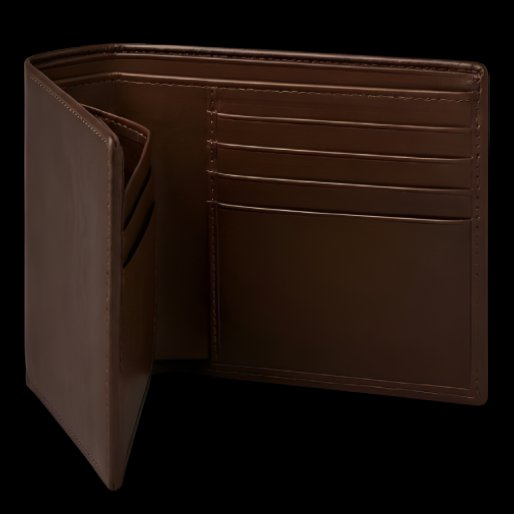
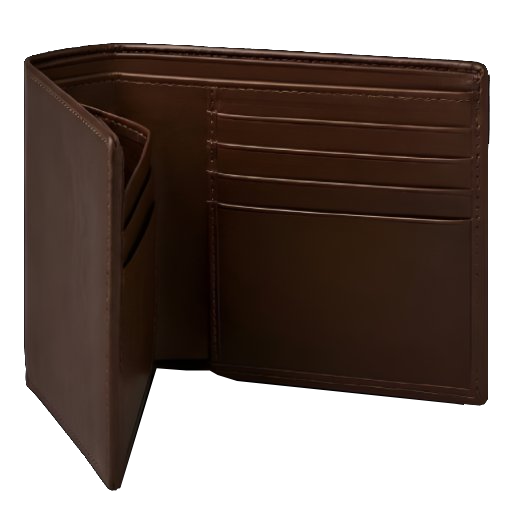
Tailwindcss added fixed design and and wallet images

diff --git a/src/pages/Home.jsx b/src/pages/Home.jsx
@@ -32,54 +32,68 @@ const TESTIMONIALS = [
   },
 ]
 
+/* ── 15 wallet frames ── */
+const FRAMES = [
+  { src: '/images/wallet-01-front-closed.png',   label: 'Closed · Hand-stitched cowhide' },
+  { src: '/images/wallet-02-opened-30deg.png',   label: 'Opening · Vegetable tanned leather' },
+  { src: '/images/wallet-03-opened-45deg.png',   label: 'Opening · Vegetable tanned leather' },
+  { src: '/images/wallet-04-opened-60deg.png',   label: 'Opening · Vegetable tanned leather' },
+  { src: '/images/wallet-05-opened-85deg.png',   label: 'Opening · Vegetable tanned leather' },
+  { src: '/images/wallet-06-opened-100deg.png',  label: 'Opening · Vegetable tanned leather' },
+  { src: '/images/wallet-07-opened-130deg.png',  label: 'Opening · Vegetable tanned leather' },
+  { src: '/images/wallet-08-opened-180deg.png',  label: 'Open · 8 card slots inside' },
+  { src: '/images/wallet-09-closing-130deg.png', label: 'Open · 8 card slots inside' },
+  { src: '/images/wallet-10-closing-100deg.png', label: 'Closing · Premium leather' },
+  { src: '/images/wallet-11-closing-85deg.png',  label: 'Closing · Premium leather' },
+  { src: '/images/wallet-12-closing-60deg.png',  label: 'Closing · Premium leather' },
+  { src: '/images/wallet-13-closing-45deg.png',  label: 'Closing · Premium leather' },
+  { src: '/images/wallet-14-closing-30deg.png',  label: 'Closing · Premium leather' },
+  { src: '/images/wallet-15-back-closed.png',    label: 'Closed · Back side' },
+]
+
 /* ── Wallet scroll animation ── */
 const WalletScrollSection = () => {
   const sectionRef = useRef(null)
   const wrapRef    = useRef(null)
+  const imgRef     = useRef(null)
   const labelRef   = useRef(null)
-  const closedRef  = useRef(null)
-  const midRef     = useRef(null)
-  const openRef    = useRef(null)
+
+  // Preload all frames on mount
+  useEffect(() => {
+    FRAMES.forEach(f => { const i = new Image(); i.src = f.src })
+  }, [])
 
   useEffect(() => {
-    const lerp  = (a, b, t) => a + (b - a) * Math.max(0, Math.min(1, t))
-    const inv   = (lo, hi, p) => Math.max(0, Math.min(1, (p - lo) / (hi - lo)))
-
     let raf = null
+
     const onScroll = () => {
       if (raf) return
       raf = requestAnimationFrame(() => {
         raf = null
-        if (!sectionRef.current) return
+        if (!sectionRef.current || !imgRef.current) return
+
         const rect   = sectionRef.current.getBoundingClientRect()
         const totalH = sectionRef.current.offsetHeight - window.innerHeight
         const p      = Math.min(1, Math.max(0, -rect.top / totalH))
 
-        // Opacities
-        const oClosed = p < 0.20 ? 1 : lerp(1, 0, inv(0.20, 0.45, p))
-        const oMid    = lerp(0, 1, inv(0.20, 0.45, p)) * lerp(1, 0, inv(0.45, 0.70, p))
-        const oOpen   = lerp(0, 1, inv(0.45, 0.70, p))
+        // Map progress → frame index
+        const frameIndex = Math.min(FRAMES.length - 1, Math.floor(p * FRAMES.length))
+        const frame = FRAMES[frameIndex]
 
-        if (closedRef.current) closedRef.current.style.opacity = oClosed.toFixed(3)
-        if (midRef.current)    midRef.current.style.opacity    = oMid.toFixed(3)
-        if (openRef.current)   openRef.current.style.opacity   = oOpen.toFixed(3)
-
-        // 3-D tilt during opening
-        const tilt  = Math.sin(Math.max(0, Math.min(1, (p - 0.20) / 0.50)) * Math.PI) * 20
-        const lift  = Math.sin(p * Math.PI) * -20
-        const scale = lerp(0.88, 1.04, inv(0, 0.80, p))
-
-        if (wrapRef.current) {
-          wrapRef.current.style.transform =
-            `translateY(${lift.toFixed(1)}px) scale(${scale.toFixed(3)}) rotateY(${tilt.toFixed(1)}deg)`
+        // Swap src only when frame changes (avoids flicker)
+        const newSrc = new URL(frame.src, window.location.origin).href
+        if (imgRef.current.src !== newSrc) {
+          imgRef.current.src = frame.src
         }
 
         // Label
-        if (labelRef.current) {
-          labelRef.current.textContent =
-            p < 0.30 ? 'Closed · Hand-stitched cowhide' :
-            p < 0.68 ? 'Opening · Vegetable tanned leather' :
-                       'Open · 8 card slots inside'
+        if (labelRef.current) labelRef.current.textContent = frame.label
+
+        // Subtle lift + scale
+        const lift  = Math.sin(p * Math.PI) * -22
+        const scale = 0.9 + p * 0.14
+        if (wrapRef.current) {
+          wrapRef.current.style.transform = `translateY(${lift.toFixed(1)}px) scale(${scale.toFixed(3)})`
         }
       })
     }
@@ -88,12 +102,6 @@ const WalletScrollSection = () => {
     onScroll()
     return () => { window.removeEventListener('scroll', onScroll); if (raf) cancelAnimationFrame(raf) }
   }, [])
-
-  const imgBase = {
-    position: 'absolute', inset: 0, width: '100%', height: '100%',
-    objectFit: 'contain', pointerEvents: 'none', userSelect: 'none',
-    filter: 'drop-shadow(0 28px 56px rgba(0,0,0,0.9))',
-  }
 
   return (
     <section ref={sectionRef} className="h-[300vh] relative">
@@ -124,23 +132,23 @@ const WalletScrollSection = () => {
           ))}
         </div>
 
-        {/* Wallet images */}
+        {/* Wallet — single <img>, src swapped per frame */}
         <div
           ref={wrapRef}
           className="relative z-[3] will-change-transform"
           style={{
             width: 'min(440px, 70vw)',
             height: 'min(440px, 70vw)',
-            perspective: '1000px',
             transition: 'transform 0.05s linear',
           }}
         >
-          <img ref={closedRef} src="/images/wallet-closed.png" alt="Wallet closed"
-            style={{ ...imgBase, opacity: 1 }} />
-          <img ref={midRef}    src="/images/wallet-2.png"      alt="Wallet opening"
-            style={{ ...imgBase, opacity: 0 }} />
-          <img ref={openRef}   src="/images/wallet-open.png"   alt="Wallet open"
-            style={{ ...imgBase, opacity: 0 }} />
+          <img
+            ref={imgRef}
+            src={FRAMES[0].src}
+            alt="Bifold wallet"
+            className="absolute inset-0 w-full h-full object-contain pointer-events-none select-none"
+            style={{ filter: 'drop-shadow(0 28px 56px rgba(0,0,0,0.85))' }}
+          />
         </div>
 
         {/* Right panel */}
@@ -197,12 +205,10 @@ const Home = () => {
         className="relative min-h-screen flex items-center overflow-hidden px-10 pt-32 pb-20"
         style={{ background: 'linear-gradient(145deg,#faf7f2 0%,#f0ebe0 55%,#e8e0d0 100%)' }}
       >
-        {/* Decorative elements */}
         <div className="absolute left-0 top-0 bottom-0 w-px bg-gradient-to-b from-transparent via-gold/25 to-transparent" />
         <div className="absolute -right-48 -top-48 w-[650px] h-[650px] rounded-full border border-gold/[0.07] pointer-events-none" />
         <div className="absolute -right-28 -top-28 w-[420px] h-[420px] rounded-full border border-gold/[0.05] pointer-events-none" />
 
-        {/* Content */}
         <div className="relative z-10 max-w-[680px]">
           <p className="anim-fade-up anim-d1 font-sans text-[0.6rem] tracking-[0.45em] text-gold uppercase mb-8">
             Handcrafted in Pakistan · Est. 2024
@@ -250,7 +256,6 @@ const Home = () => {
           </div>
         </div>
 
-        {/* Quote */}
         <div className="absolute right-12 bottom-14 text-right max-lg:hidden">
           <p className="font-serif italic text-[1rem] leading-[1.9]" style={{ color: 'rgba(139,74,42,0.35)' }}>
             "Leather is not just a material.<br />It is a commitment to quality."
@@ -274,62 +279,80 @@ const Home = () => {
       <WalletScrollSection />
 
       {/* ── Our Craft ── */}
-      <section id="craft" className="relative overflow-hidden py-32 px-10 bg-ivory">
-        {/* Decorative V */}
-        <div
-          className="absolute right-0 top-1/2 -translate-y-1/2 font-serif font-light
-            leading-none select-none pointer-events-none"
-          style={{ fontSize: '18rem', color: 'rgba(201,168,76,0.04)' }}
-        >V</div>
+      <section id="craft" className="relative overflow-hidden bg-ivory">
 
-        <div className="relative z-10 max-w-[1200px] mx-auto grid grid-cols-2 gap-24 items-center max-md:grid-cols-1 max-md:gap-12">
+        {/* TOP HALF — text + stats, full width */}
+        <div className="relative z-10 max-w-[1200px] mx-auto px-10 pt-32 pb-20">
+          {/* Decorative V */}
+          <div
+            className="absolute right-0 top-0 font-serif font-light leading-none select-none pointer-events-none"
+            style={{ fontSize: '20rem', color: 'rgba(201,168,76,0.04)', lineHeight: 1 }}
+          >V</div>
 
-          <div className="reveal">
-            <span className="font-sans text-[0.58rem] tracking-[0.35em] text-gold uppercase block mb-5">
-              Our Philosophy
-            </span>
-            <h2
-              className="font-serif font-light text-black leading-[1.1] mb-7"
-              style={{ fontSize: 'clamp(2.4rem,3.8vw,4rem)' }}
-            >
-              Every Stitch<br />Tells a <em className="italic text-cognac">Story</em>
-            </h2>
-            <p className="font-sans text-[0.78rem] leading-[2.1] text-[#4a3f35] mb-5 tracking-[0.03em]">
-              We believe that leather goods should outlive trends. Each piece is a meditation on
-              patience — cut from hides selected for character, stitched by hand with waxed thread,
-              finished with attention that mass production can never replicate.
-            </p>
-            <p className="font-sans text-[0.78rem] leading-[2.1] text-[#4a3f35] tracking-[0.03em]">
-              From Lahore to the world stage, VELLUM carries forward a heritage of Pakistani
-              leather craftsmanship into a new era of luxury.
-            </p>
+          <div className="grid grid-cols-2 gap-24 items-start max-md:grid-cols-1 max-md:gap-12">
+            <div className="reveal">
+              <span className="font-sans text-[0.58rem] tracking-[0.35em] text-gold uppercase block mb-5">
+                Our Philosophy
+              </span>
+              <h2
+                className="font-serif font-light text-black leading-[1.1] mb-7"
+                style={{ fontSize: 'clamp(2.4rem,3.8vw,4rem)' }}
+              >
+                Every Stitch<br />Tells a <em className="italic text-cognac">Story</em>
+              </h2>
+              <p className="font-sans text-[0.78rem] leading-[2.1] text-[#4a3f35] mb-5 tracking-[0.03em]">
+                We believe that leather goods should outlive trends. Each piece is a meditation on
+                patience — cut from hides selected for character, stitched by hand with waxed thread,
+                finished with attention that mass production can never replicate.
+              </p>
+              <p className="font-sans text-[0.78rem] leading-[2.1] text-[#4a3f35] tracking-[0.03em]">
+                From Lahore to the world stage, VELLUM carries forward a heritage of Pakistani
+                leather craftsmanship into a new era of luxury.
+              </p>
+            </div>
 
-            {/* Stats */}
-            <div className="grid grid-cols-2 gap-6 mt-12">
+            {/* Stats — right column, aligned top */}
+            <div className="reveal grid grid-cols-2 gap-x-10 gap-y-10 pt-4">
               {STATS.map((s) => (
                 <div key={s.label} className="border-t border-gold/25 pt-5">
-                  <div className="font-serif text-[2.4rem] text-gold font-light leading-none">{s.num}</div>
-                  <div className="font-sans text-[0.58rem] tracking-[0.2em] text-gold-dim uppercase mt-1">{s.label}</div>
+                  <div className="font-serif text-[2.8rem] text-gold font-light leading-none">{s.num}</div>
+                  <div className="font-sans text-[0.58rem] tracking-[0.2em] text-gold-dim uppercase mt-2">{s.label}</div>
                 </div>
               ))}
             </div>
           </div>
-
-          <div className="reveal flex items-center justify-center">
-            <div
-              className="w-full max-w-[420px] aspect-square rounded-sm flex items-center justify-center
-                border border-gold/15 overflow-hidden"
-              style={{ background: 'linear-gradient(135deg,#e8e0d0,#d4c8b8)' }}
-            >
-              <img
-                src="/images/wallet-open.png"
-                alt="Open leather wallet"
-                className="w-4/5 object-contain drop-shadow-[0_20px_40px_rgba(0,0,0,0.25)]"
-              />
-            </div>
-          </div>
-
         </div>
+
+        {/* BOTTOM HALF — full-bleed cinematic image */}
+        <div className="reveal relative w-full overflow-hidden" style={{ height: '520px' }}>
+          {/* Image fills full width */}
+          <img
+            src="/images/craftsman.png"
+            alt="Master leather craftsman at work"
+            className="w-full h-full object-cover object-center"
+            style={{ objectPosition: '50% 30%' }}
+          />
+
+          {/* Dark gradient overlay top + bottom for blending */}
+          <div className="absolute inset-0"
+            style={{ background: 'linear-gradient(to bottom, #faf7f2 0%, transparent 18%, transparent 72%, rgba(14,13,10,0.55) 100%)' }}
+          />
+
+          {/* Gold side accent line */}
+          <div className="absolute left-10 top-0 bottom-0 w-px bg-gradient-to-b from-gold/40 via-gold/10 to-transparent" />
+
+          {/* Floating quote over image */}
+          <div className="absolute bottom-10 left-10 right-10 flex items-end justify-between max-md:flex-col max-md:gap-4">
+            <p className="font-serif italic text-cream/90 max-w-[460px]"
+              style={{ fontSize: 'clamp(1rem, 1.5vw, 1.3rem)', lineHeight: 1.8, textShadow: '0 2px 20px rgba(0,0,0,0.5)' }}>
+              "Every tool mark, every stitch — a signature the machine can never forge."
+            </p>
+            <span className="font-sans text-[0.58rem] tracking-[0.3em] text-gold uppercase shrink-0">
+              Est. Lahore, 2012
+            </span>
+          </div>
+        </div>
+
       </section>
 
       {/* ── Featured products ── */}
@@ -343,13 +366,11 @@ const Home = () => {
               Crafted for the Discerning
             </h2>
           </div>
-
           <div className="grid grid-cols-3 gap-6 max-lg:grid-cols-2 max-md:grid-cols-1">
             {featured.map((product, i) => (
               <ProductCard key={product.id} product={product} index={i} />
             ))}
           </div>
-
           <div className="text-center mt-14">
             <Link
               to="/shop"
@@ -401,7 +422,6 @@ const Home = () => {
             </span>
             <h2 className="font-serif font-light text-[2.6rem] text-black">What They Say</h2>
           </div>
-
           <div className="grid grid-cols-3 gap-12 max-md:grid-cols-1 max-md:gap-10">
             {TESTIMONIALS.map((t, i) => (
               <div key={i} className="reveal relative pt-8">
@@ -409,9 +429,7 @@ const Home = () => {
                   className="absolute -top-4 -left-1 font-serif leading-none select-none"
                   style={{ fontSize: '5.5rem', color: 'rgba(201,168,76,0.13)' }}
                 >"</span>
-                <p className="font-serif italic text-[1.02rem] leading-[1.9] text-[#4a3f35] mb-6">
-                  {t.text}
-                </p>
+                <p className="font-serif italic text-[1.02rem] leading-[1.9] text-[#4a3f35] mb-6">{t.text}</p>
                 <p className="font-sans text-[0.58rem] tracking-[0.2em] text-gold uppercase">{t.author}</p>
                 <p className="font-sans text-[0.58rem] text-gold-dim mt-1">{t.location}</p>
               </div>

diff --git a/src/components/Navbar.jsx b/src/components/Navbar.jsx
@@ -49,7 +49,7 @@ const Navbar = () => {
               <li key={l.label}>
                 <Link
                   to={l.to}
-                  className={`font-sans font-light text-[0.62rem] tracking-[0.22em] uppercase
+                  className={`font-sans font-light text-[0.75rem] tracking-[0.22em] uppercase
                     border-b pb-[2px] transition-colors duration-300
                     ${active
                       ? 'text-gold border-gold'
